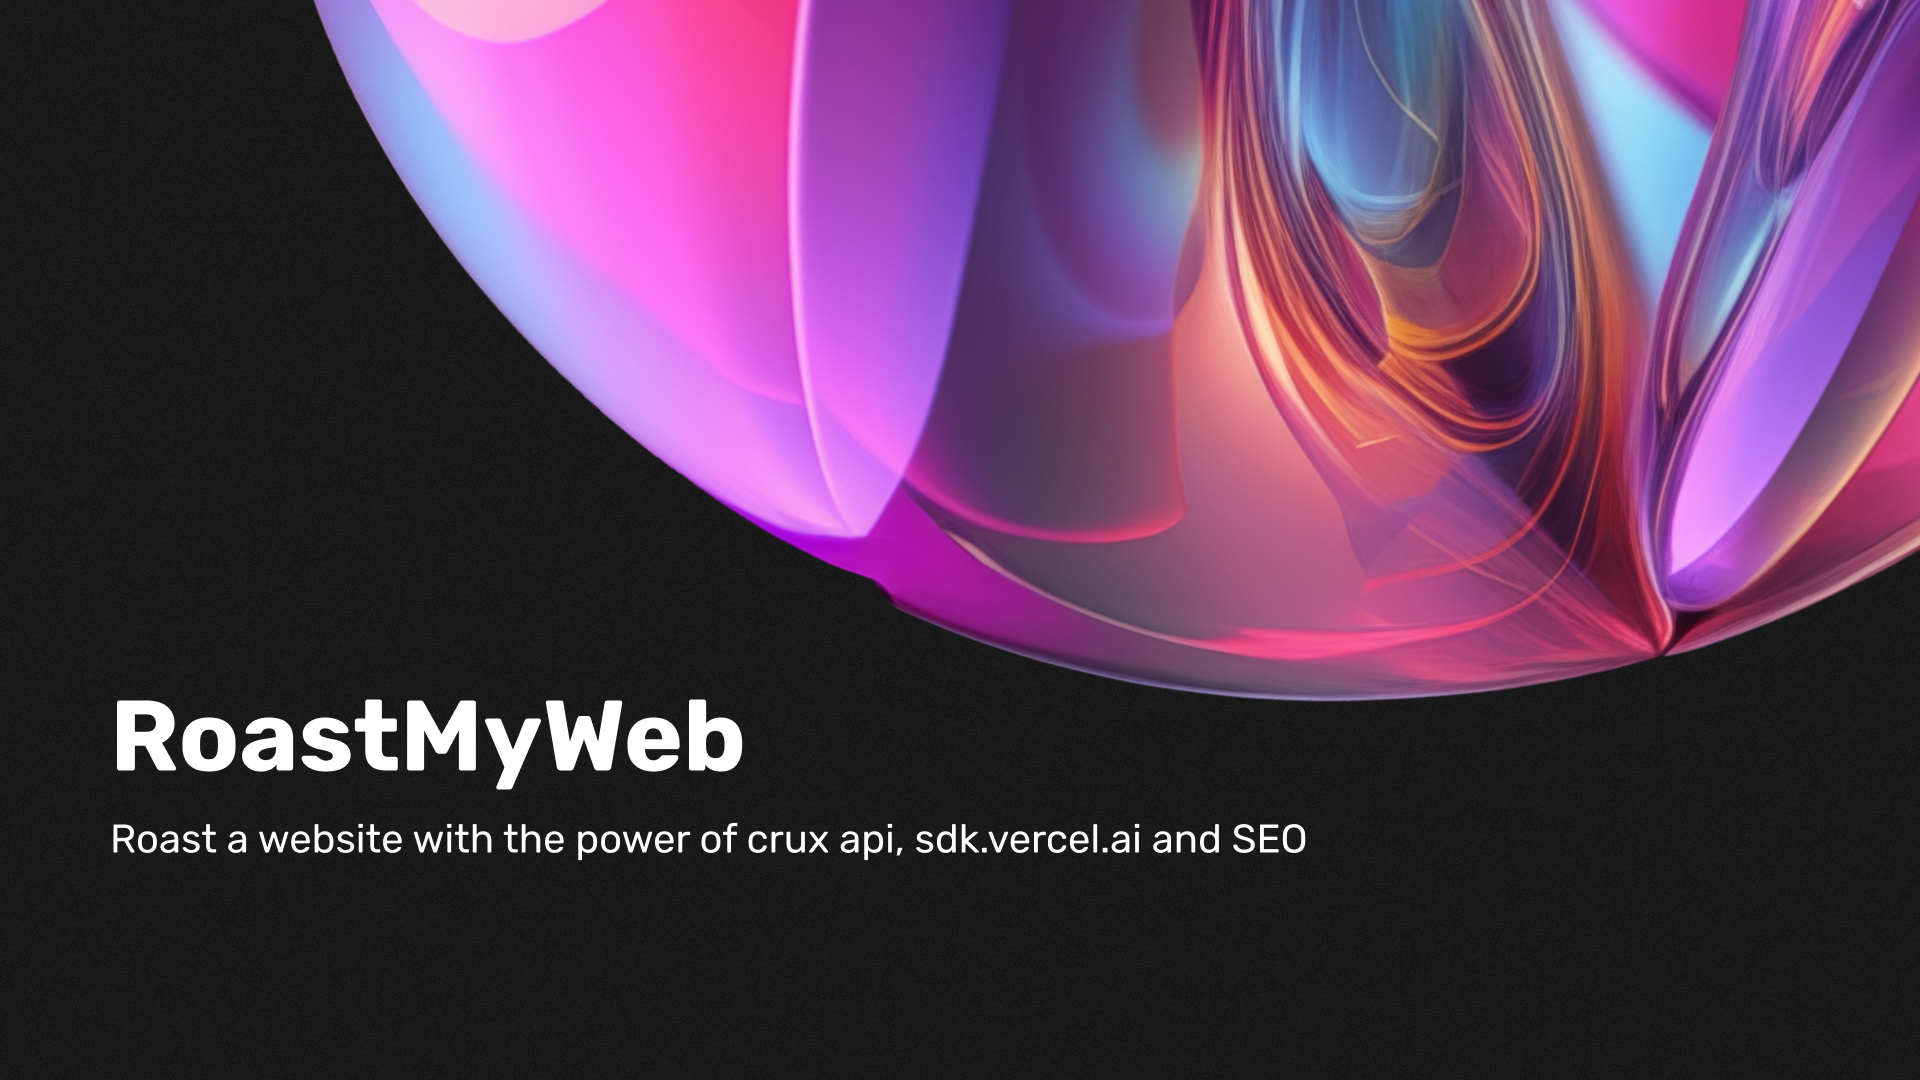
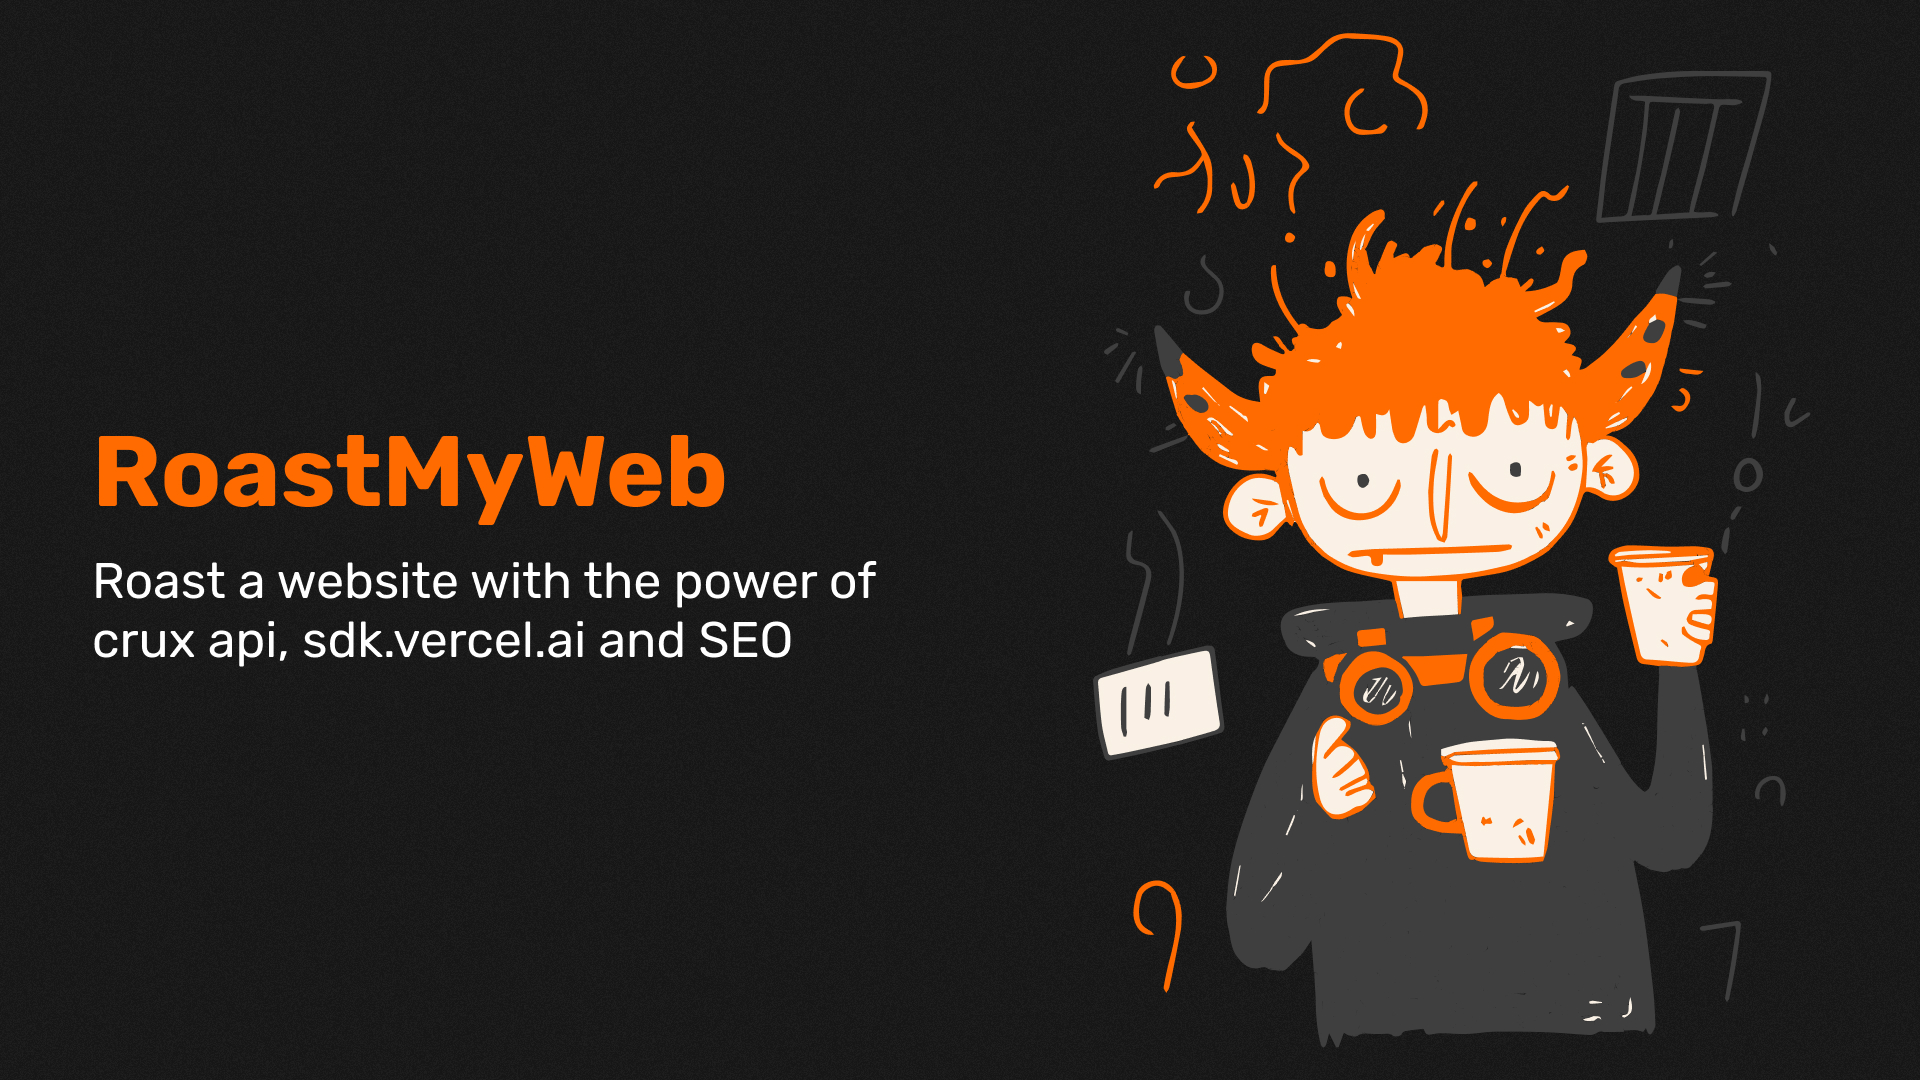
add img and footer

diff --git a/src/app/components/Footer.tsx b/src/app/components/Footer.tsx
@@ -1,0 +1,32 @@
+export default function Footer() {
+  return (
+    <footer className="border-t border-light4 dark:border-dark4">
+      <div className="container mx-auto max-w-xl px-6 text-base">
+        <div className="py-8">
+          <div className="flex flex-col justify-between gap-8">
+            <div className="flex flex-row items-center justify-between text-light12 dark:text-dark12">
+              <a href="https://github.com/educlopez/roastmyweb" target="_blank">
+                <div className="w-24 py-1 transition hover:text-light11 hover:dark:text-dark11">
+                  Github
+                </div>
+              </a>
+              <a href="https://twitter.com/educlopez93" target="_blank">
+                <div className="w-24 py-1 transition hover:text-light11 hover:dark:text-dark11">
+                  Twitter
+                </div>
+              </a>
+              <a href="https://www.linkedin.com/in/educlopez/" target="_blank">
+                <div className="w-24 py-1 transition hover:text-light11 hover:dark:text-dark11">
+                  LinkedIn
+                </div>
+              </a>
+            </div>
+            <div className="flex w-full gap-2 text-center text-light12 dark:text-dark12 md:flex-col">
+              <div>With sarcastic ❤ from Spain</div>
+            </div>
+          </div>
+        </div>
+      </div>
+    </footer>
+  )
+}

diff --git a/src/app/layout.tsx b/src/app/layout.tsx
@@ -11,6 +11,8 @@ import "./globals.css"
 import { FloatNav } from "@/app/components/FloatNav"
 import { NavPill } from "@/app/components/NavPill"
 
+import Footer from "./components/Footer"
+
 const inter = Inter({ subsets: ["latin"] })
 const pramukhRounded = localFont({
   src: "./fonts/PramukhRounded-Variable.woff",
@@ -75,7 +77,7 @@ export default function RootLayout({
         className={`bg-light1 antialiased transition dark:bg-dark1 ${inter.className} `}
       >
         <ThemeProvider attribute="class" defaultTheme="system" enableSystem>
-          <div className="relative mb-16 sm:mb-32">
+          <div className="relative mb-16">
             <div className="fixed inset-x-0 top-0 isolate z-[10] h-[50px]">
               <div className="gradient-mask-b-0 absolute inset-0 backdrop-blur-[1px]" />
               <div className="gradient-mask-b-0 absolute inset-0 backdrop-blur-[2px]" />
@@ -97,6 +99,7 @@ export default function RootLayout({
             </main>
             <NavPill />
             <FloatNav />
+            <Footer />
           </div>
           <Analytics />
         </ThemeProvider>

diff --git a/src/app/components/ImageDemon.tsx b/src/app/components/ImageDemon.tsx
@@ -1,0 +1,39 @@
+"use client"
+
+import { useEffect, useState } from "react"
+import Image from "next/image"
+import { useTheme } from "next-themes"
+
+import DarkPaint from "@/app/assets/demon-paint.png"
+import LightPaint from "@/app/assets/demon-paintlight.png"
+
+const DarkImage = DarkPaint
+const LightImage = LightPaint
+
+export default function ImageDemon() {
+  const { theme } = useTheme()
+  const [mounted, setMounted] = useState(false)
+
+  useEffect(() => {
+    setMounted(true)
+  }, [])
+
+  if (!mounted) return null
+  return (
+    <>
+      {theme === "dark" ? (
+        <Image
+          src={DarkImage}
+          className="relative z-10 mx-auto w-[400px]"
+          alt="right paint dark"
+        />
+      ) : (
+        <Image
+          src={LightImage}
+          className="relative z-10 mx-auto w-[400px]"
+          alt="right paint light"
+        />
+      )}
+    </>
+  )
+}

diff --git a/src/app/page.tsx b/src/app/page.tsx
@@ -1,6 +1,6 @@
 import WrappedAnalyzerForm from "@/app/components/AnalyzerForm"
 
-import ScannerWindowAnimation from "./components/Scaner"
+import ImageDemon from "./components/ImageDemon"
 
 const title = "AI’s Wise, "
 const subtitle = "Web Data Surprise"
@@ -29,9 +29,13 @@ export default function Home() {
           </div>
         </div>
       </section>
+
       <section className="mx-auto w-full max-w-6xl px-4 lg:px-8">
         <WrappedAnalyzerForm />
       </section>
+      <div className="relative w-full md:block">
+        <ImageDemon />
+      </div>
     </div>
   )
 }
